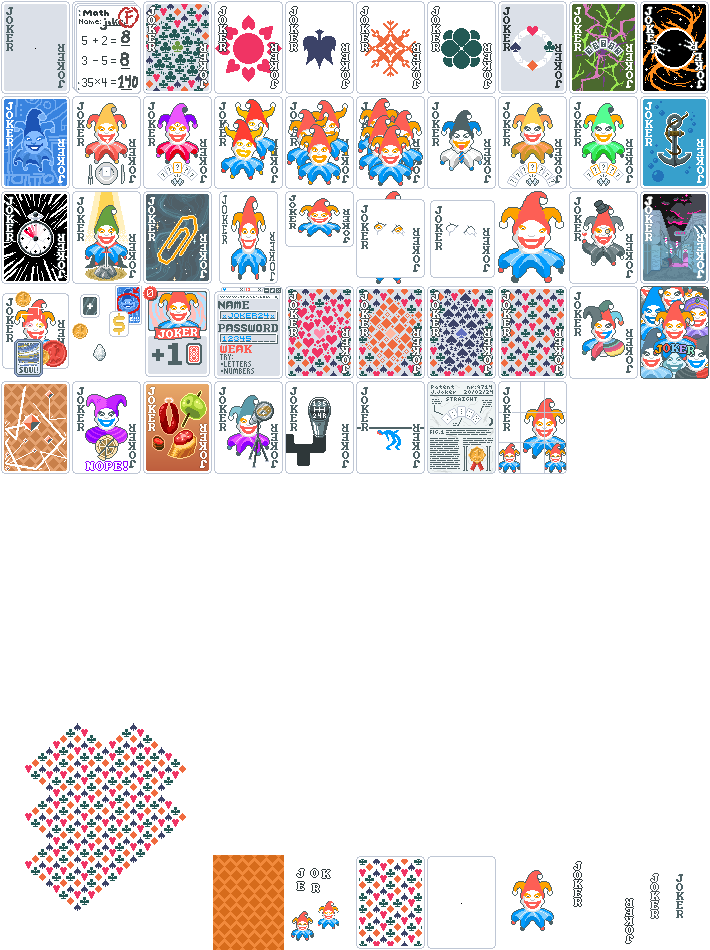
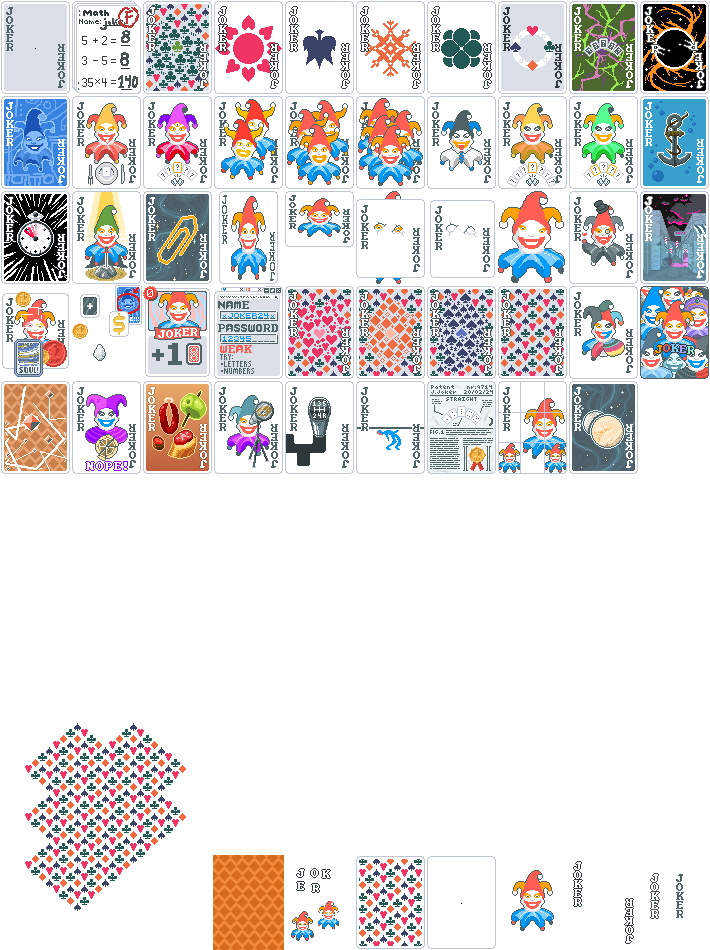
Add Astral Transit

Changed region(s): [[0.8056, 0.3968, 0.8986, 0.5189]]

diff --git a/web/addjokers.js b/web/addjokers.js
@@ -407,6 +407,14 @@ let jokers = [
     image_url: "img/j/rule_of_three.png",
     rarity: "Uncommon"
   },
+  {
+    name: "Astral Transit",
+    text: [
+      "When a {C:planet}Planet{} card is used, also level up a random other {C:attention}poker hand{}",
+    ],
+    image_url: "img/j/astral_transit.png",
+    rarity: "Common"
+  },
 
   // {
   //   name: "",
